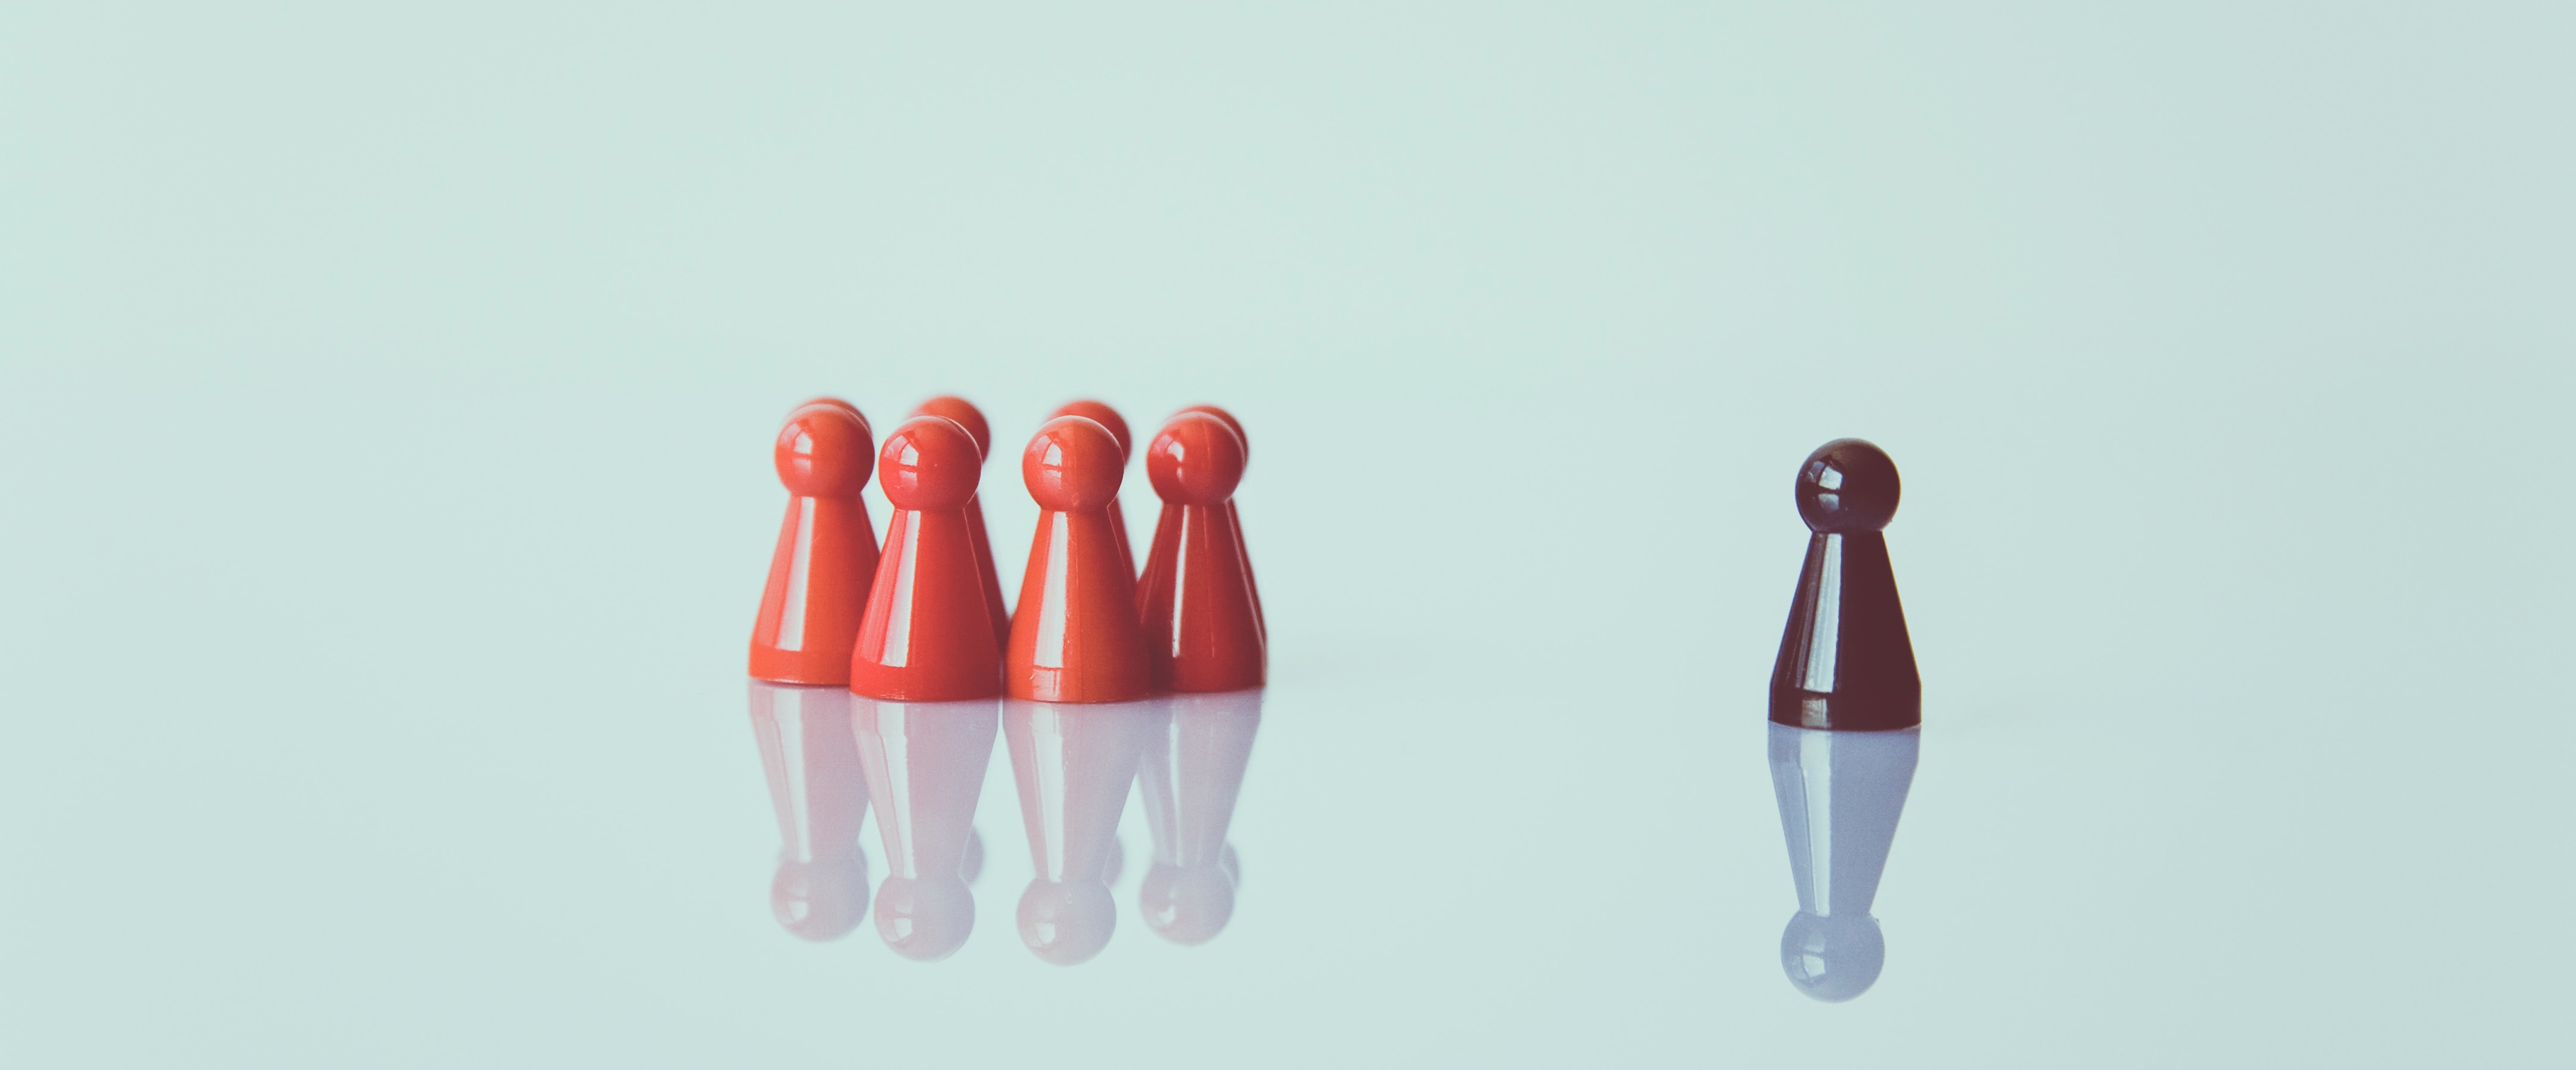
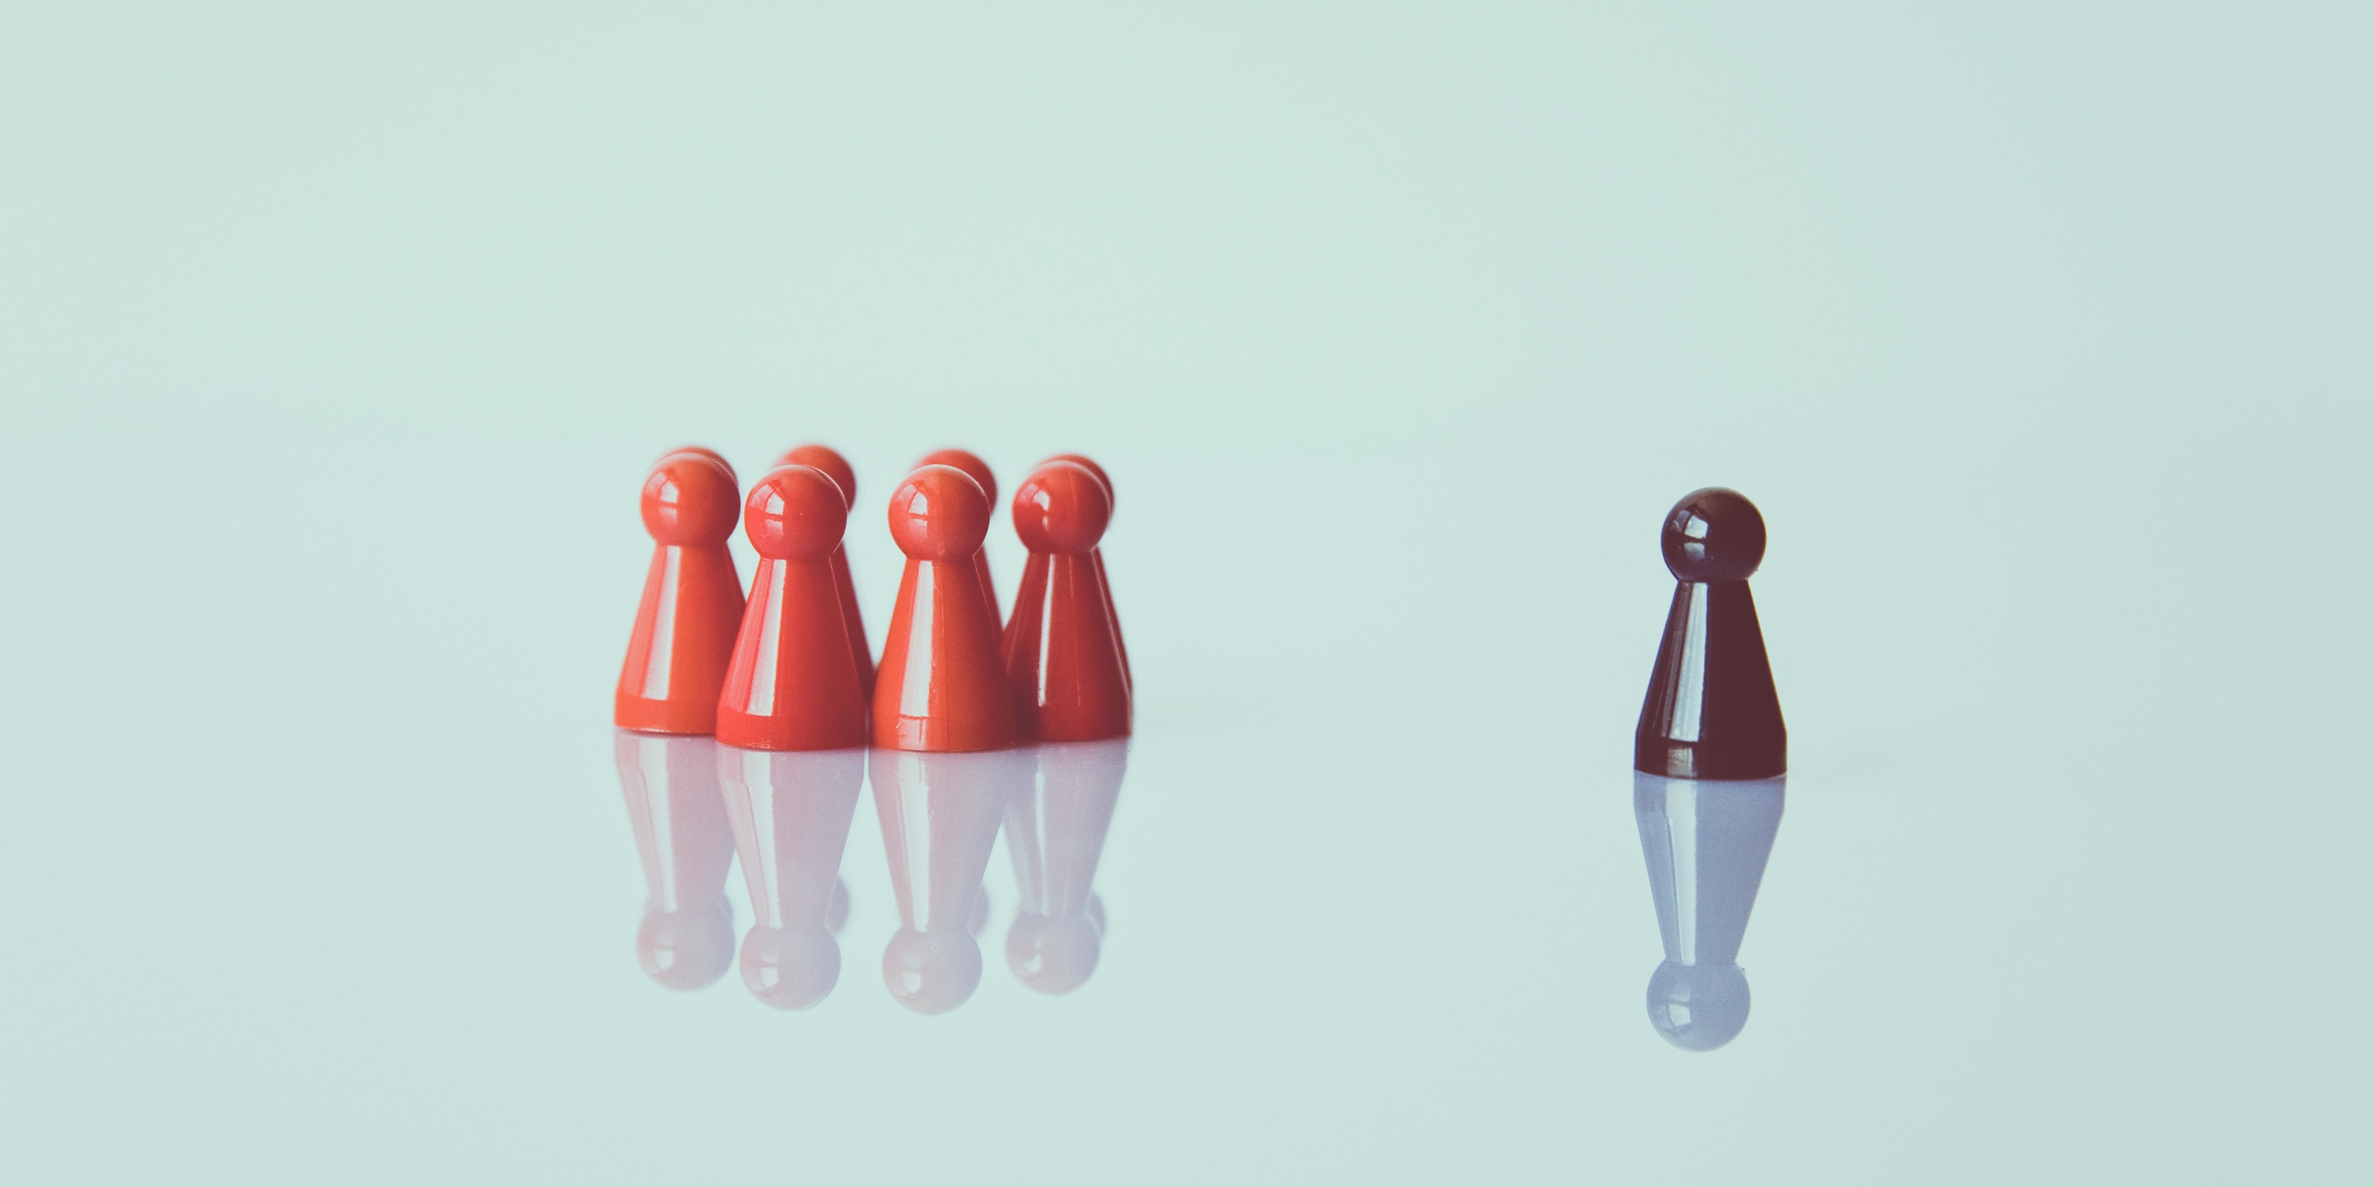
[AW] created Progressive Image component, fixed image ratios and containers and refactored all image containing components

Changed region(s): [[0.25, 0.3725, 0.5, 0.9002], [0.6875, 0.4035, 0.75, 0.9313]]

diff --git a/components/BlogCard.vue b/components/BlogCard.vue
@@ -1,12 +1,7 @@
 <template>
   <div :class="blogClass">
     <nuxt-link :to="`articles/${post.path}`">
-      <div v-lazy-container="{ selector: 'img' }" class="blog-roll-image">
-        <img
-          :data-src="require(`@/assets/images${post.image}`)"
-          :data-loading="require(`@/assets/images${post.image}?lqip`)"
-        />
-      </div>
+      <ProgressiveImage :image-path="post.image" />
       <h1 class="title">{{ post.title }}</h1>
       <h1 class="subtitle">{{ post.subtitle }}</h1>
     </nuxt-link>
@@ -14,7 +9,11 @@
 </template>
 
 <script>
+import ProgressiveImage from '@/components/ProgressiveImage'
 export default {
+  components: {
+    ProgressiveImage
+  },
   props: {
     post: {
       type: Object,
@@ -43,9 +42,6 @@ export default {
 </script>
 
 <style>
-.blog-roll-image {
-  max-width: 100%;
-}
 .blog-card {
   padding: 1em 0 1em 0;
 }
@@ -53,6 +49,6 @@ export default {
   -webkit-transform: scale(1.01);
   -moz-transform: scale(1.01);
   -ms-transform: scale(1.01);
-  transform: scale(1.01);
+  transform: scale(1.03);
 }
 </style>

diff --git a/pages/articles/_post.vue b/pages/articles/_post.vue
@@ -5,12 +5,7 @@
         <div class="content">
           <h1 class="title is-size-1">{{ attributes.title }}</h1>
         </div>
-        <div v-lazy-container="{ selector: 'img' }">
-          <img
-            :data-src="require(`@/assets/images${attributes.image}`)"
-            :data-loading="require(`@/assets/images${attributes.image}?lqip`)"
-          />
-        </div>
+        <ProgressiveImage :image-path="attributes.image" />
         <div class="content">
           <h3 class="subtitle">{{ attributes.subtitle }}</h3>
         </div>
@@ -24,13 +19,15 @@
 
 <script>
 import Comments from '@/components/Comments'
-import Subscribe from '@/components/Subscribe'
 import Markdown from '@/components/Markdown'
+import ProgressiveImage from '@/components/ProgressiveImage'
+import Subscribe from '@/components/Subscribe'
 export default {
   components: {
     Comments,
-    Subscribe,
-    Markdown
+    Markdown,
+    ProgressiveImage,
+    Subscribe
   },
   head() {
     return {

diff --git a/components/Profile.vue b/components/Profile.vue
@@ -1,12 +1,6 @@
 <template>
   <div>
-    <div v-lazy-container="{ selector: 'img' }" class="personal-profile">
-      <img
-        class="is-rounded"
-        :data-src="require(`@/assets/images${image}`)"
-        :data-loading="require(`@/assets/images${image}?lqip`)"
-      />
-    </div>
+    <ProgressiveImage :aspect-ratio="'is-square'" :is-rounded="true" />
     <div class="has-text-centered">
       <h1 class="is-size-4">{{ title }}</h1>
     </div>
@@ -14,7 +8,11 @@
 </template>
 
 <script>
+import ProgressiveImage from '@/components/ProgressiveImage'
 export default {
+  components: {
+    ProgressiveImage
+  },
   props: {
     title: {
       type: String,

diff --git a/components/ProgressiveImage.vue b/components/ProgressiveImage.vue
@@ -1,0 +1,30 @@
+<template>
+  <figure :class="`image ${aspectRatio}`">
+    <div v-lazy-container="{ selector: 'img' }">
+      <img
+        :class="isRounded && 'is-rounded'"
+        :data-src="require(`@/assets/images${imagePath}`)"
+        :data-loading="require(`@/assets/images${imagePath}?lqip`)"
+      />
+    </div>
+  </figure>
+</template>
+
+<script>
+export default {
+  props: {
+    aspectRatio: {
+      type: String,
+      default: 'is-2by1'
+    },
+    imagePath: {
+      type: String,
+      default: '/personal-profile.jpg'
+    },
+    isRounded: {
+      type: Boolean,
+      default: false
+    }
+  }
+}
+</script>
